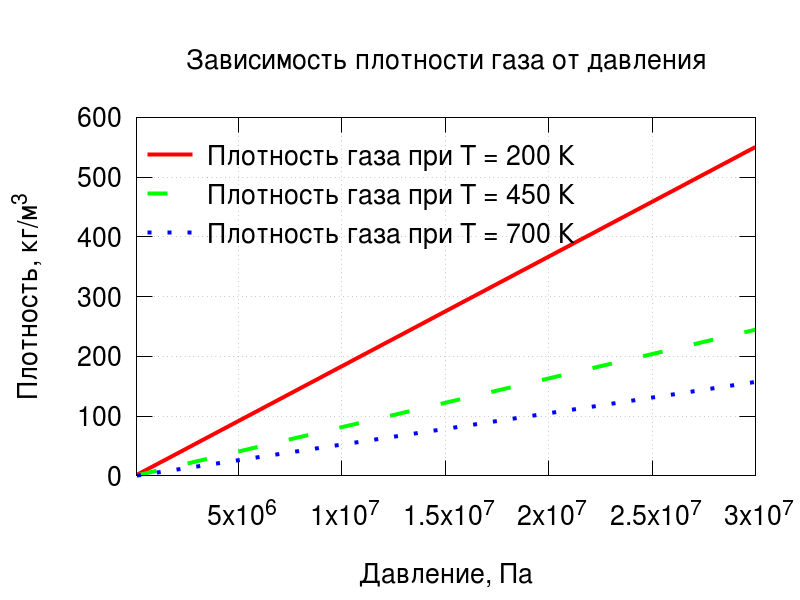
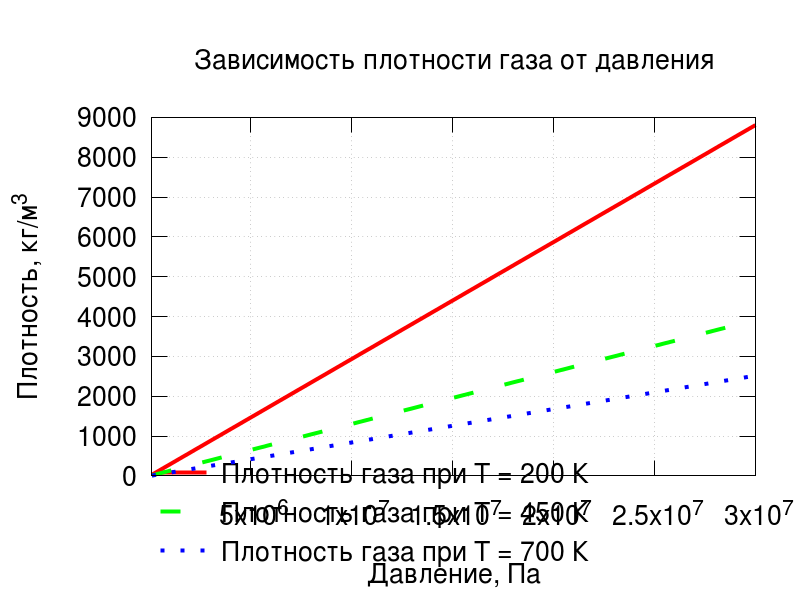
Parallel mode was done!

diff --git a/src/lib/boundary_conditions.c b/src/lib/boundary_conditions.c
@@ -5,6 +5,9 @@
 #include <stdlib.h>
 #include <string.h>
 #include <math.h>
+#include <unistd.h>
+#include <sys/time.h>
+#include "boundary_conditions.h"
 
 #if AVALANCHE
 int SET_boundary_CONDITION_velocity_zero_gradient_on_up_and_sides_no_slip_on_low(in *I)
@@ -592,50 +595,16 @@ int SET_boundary_CONDITION_termogas_no_bounadries_4_in_1_out_consistent(in *I)
 			}
 		}
 	}
-	i = j = k = 0;
-	I->B_prev[B_IND(I, 0, i, j, k)] = 3.55 * (1 - 2 * I->epsilon) / 4.55;
-	I->B_prev[B_IND(I, 1, i, j, k)] = (1 - 2 * I->epsilon) / 4.55;
-	I->B_prev[B_IND(I, 2, i, j, k)] = I->epsilon;
-	I->B_prev[B_IND(I, 3, i, j, k)] = I->epsilon;
-	I->B_prev[B_IND(I, 4, i, j, k)] = I->injection_well_pressure;
-	I->B_prev[B_IND(I, 5, i, j, k)] = 0.5 - (I->residual_saturation[1] + I->epsilon) / 2;
-	I->B_prev[B_IND(I, 6, i, j, k)] = I->residual_saturation[1] + I->epsilon;
-	I->B_prev[B_IND(I, 7, i, j, k)] = 0.5 - (I->residual_saturation[1] + I->epsilon) / 2;
-	i = j = 0;
-	k = I->nz - 1;
-	I->B_prev[B_IND(I, 0, i, j, k)] = 3.55 * (1 - 2 * I->epsilon) / 4.55;
-	I->B_prev[B_IND(I, 1, i, j, k)] = (1 - 2 * I->epsilon) / 4.55;
-	I->B_prev[B_IND(I, 2, i, j, k)] = I->epsilon;
-	I->B_prev[B_IND(I, 3, i, j, k)] = I->epsilon;
-	I->B_prev[B_IND(I, 4, i, j, k)] = I->injection_well_pressure;
-	I->B_prev[B_IND(I, 5, i, j, k)] = 0.5 - (I->residual_saturation[1] + I->epsilon) / 2;
-	I->B_prev[B_IND(I, 6, i, j, k)] = I->residual_saturation[1] + I->epsilon;
-	I->B_prev[B_IND(I, 7, i, j, k)] = 0.5 - (I->residual_saturation[1] + I->epsilon) / 2;
-	j = k = 0;
-	i = I->nx - 1;
-	I->B_prev[B_IND(I, 0, i, j, k)] = 3.55 * (1 - 2 * I->epsilon) / 4.55;
-	I->B_prev[B_IND(I, 1, i, j, k)] = (1 - 2 * I->epsilon) / 4.55;
-	I->B_prev[B_IND(I, 2, i, j, k)] = I->epsilon;
-	I->B_prev[B_IND(I, 3, i, j, k)] = I->epsilon;
-	I->B_prev[B_IND(I, 4, i, j, k)] = I->injection_well_pressure;
-	I->B_prev[B_IND(I, 5, i, j, k)] = 0.5 - (I->residual_saturation[1] + I->epsilon) / 2;
-	I->B_prev[B_IND(I, 6, i, j, k)] = I->residual_saturation[1] + I->epsilon;
-	I->B_prev[B_IND(I, 7, i, j, k)] = 0.5 - (I->residual_saturation[1] + I->epsilon) / 2;
-	j = 0;
-	i = I->nx - 1;
-	k = I->nz - 1;
-	I->B_prev[B_IND(I, 0, i, j, k)] = 3.55 * (1 - 2 * I->epsilon) / 4.55;
-	I->B_prev[B_IND(I, 1, i, j, k)] = (1 - 2 * I->epsilon) / 4.55;
-	I->B_prev[B_IND(I, 2, i, j, k)] = I->epsilon;
-	I->B_prev[B_IND(I, 3, i, j, k)] = I->epsilon;
-	I->B_prev[B_IND(I, 4, i, j, k)] = I->injection_well_pressure;
-	I->B_prev[B_IND(I, 5, i, j, k)] = 0.5 - (I->residual_saturation[1] + I->epsilon) / 2;
-	I->B_prev[B_IND(I, 6, i, j, k)] = I->residual_saturation[1] + I->epsilon;
-	I->B_prev[B_IND(I, 7, i, j, k)] = 0.5 - (I->residual_saturation[1] + I->epsilon) / 2;
-	j = 0;
-	i = I->nx / 2;
-	k = I->nz / 2;
-	I->B_prev[B_IND(I, 4, i, j, k)] = I->production_well_pressure;
+	for (k = 0; k < I->nz; k++) {
+		for (i = 0; i < I->nx; i++) {
+			for (j = 0; j < I->ny; j++) {
+				if (injection_well(I, i, j, k))
+					set_injection_well(I, i, j, k);
+				if (production_well(I, i, j, k))
+					set_production_well(I, i, j, k);
+			}
+		}
+	}
 	return 0;
 }
 
@@ -672,7 +641,7 @@ int SET_boundary_CONDITION_termogas_no_bounadries_4_in_1_out_parallel(in *I)
 			for (j = -I->stencil_size; j < I->ny + I->stencil_size; j++) {
 				if ((internal_cell(I, i, j, k)) && (I->ind_proc[(i + I->ind_start_region_proc[0]) * I->gl_ny + j + I->ind_start_region_proc[1]] != I->my_rank)) {
 					for (p = 0; p < I->num_parameters; p++) {
-						I->B_prev[B_IND(I, p, i, j, k)] = I->gl_B[GL_A_IND(I, p, i + I->ind_start_region_proc[0], j + I->ind_start_region_proc[0], k)];
+						I->B_prev[B_IND(I, p, i, j, k)] = I->gl_B[GL_A_IND(I, p, i + I->ind_start_region_proc[0], j + I->ind_start_region_proc[1], k)];
 					}
 				} else if (boundary_cell(I, i, j, k)) {
 					for (p = 0; p < I->num_parameters; p++) {
@@ -707,7 +676,6 @@ int SET_boundary_CONDITION_termogas_no_bounadries_4_in_1_out_parallel(in *I)
 				if (injection_well(I, i, j, k))
 					set_injection_well(I, i, j, k);
 				if (production_well(I, i, j, k)) {
-					printf("Processor %d: i = %d, j = %d, k = %d\n", I->my_rank, i, j, k);
 					set_production_well(I, i, j, k);
 				}
 			}

diff --git a/src/lib/matrix_functions.c b/src/lib/matrix_functions.c
@@ -43,7 +43,9 @@ int write_B_prev_to_B(in *I)
 
 void print_A_csr(in *I)
 {
+#if DEBUG
 	printf("Print matrix A in CSR format function\n");
+#endif
 	FILE *f;
 	int i, j, k, fl_tmp;
 	if ((f = fopen("tmp/A_csr.txt","w")) == NULL) {
@@ -139,7 +141,9 @@ void print_A_csr(in *I)
 
 int SuperLU_solver(in *I)
 {
+#if DEBUG
 	printf("Solving matrix\n");
+#endif
 	SuperMatrix A_csr;
 	NCformat *Astore;
 //	double   *a;
@@ -182,7 +186,9 @@ int SuperLU_solver(in *I)
 //	dreadhb(&m, &n, &nnz, &a, &asub, &xa);
 	dCreate_CompCol_Matrix(&A_csr, I->system_dimension, I->system_dimension, I->non_zero_elem, I->Aelem_csr, I->Ajptr_csr, I->Aiptr_csr, SLU_NR, SLU_D, SLU_GE);
 	Astore = A_csr.Store;
+#if DEBUG
 	printf("Dimension %dx%d; # nonzeros %d\n", A_csr.nrow, A_csr.ncol, Astore->nnz);
+#endif
 	nrhs   = 1;
 //	if ( !(rhs = doubleMalloc(m * nrhs)) ) ABORT("Malloc fails for rhs[].");
 	dCreate_Dense_Matrix(&B_csr, I->system_dimension, nrhs, I->B, I->system_dimension, SLU_DN, SLU_D, SLU_GE);
@@ -207,19 +213,25 @@ int SuperLU_solver(in *I)
 		dinf_norm_error(nrhs, &B_csr, sol);
 		Lstore = (SCformat *) L.Store;
 		Ustore = (NCformat *) U.Store;
+#if DEBUG
 		printf("No of nonzeros in factor L = %d\n", Lstore->nnz);
 		printf("No of nonzeros in factor U = %d\n", Ustore->nnz);
 		printf("No of nonzeros in L+U = %d\n", Lstore->nnz + Ustore->nnz - I->system_dimension);
 		printf("FILL ratio = %.1f\n", (float)(Lstore->nnz + Ustore->nnz - I->system_dimension)/I->non_zero_elem);
+#endif
 		dQuerySpace(&L, &U, &mem_usage);
-		printf("L\\U MB %.3f\ttotal MB needed %.3f\n",
-		mem_usage.for_lu/1e6, mem_usage.total_needed/1e6);
+#if DEBUG
+		printf("L\\U MB %.3f\ttotal MB needed %.3f\n", mem_usage.for_lu/1e6, mem_usage.total_needed/1e6);
+#endif
 	} else {
+#if DEBUG
 		printf("dgssv() error returns INFO= %d\n", info);
+#endif
 		if ( info <= I->system_dimension ) { /* factorization completes */
 			dQuerySpace(&L, &U, &mem_usage);
-			printf("L\\U MB %.3f\ttotal MB needed %.3f\n",
-					mem_usage.for_lu/1e6, mem_usage.total_needed/1e6);
+#if DEBUG
+			printf("L\\U MB %.3f\ttotal MB needed %.3f\n", mem_usage.for_lu/1e6, mem_usage.total_needed/1e6);
+#endif
 		}
 		printf("Matrix has no solution\n");
 		return 1;
@@ -232,7 +244,9 @@ int SuperLU_solver(in *I)
 //		phase_fraction[i] = sol[i * num_parameters + 3];
 //		pressure[i] = sol[i * num_parameters + 4];
 //	}
+#if DEBUG
 	printf("Matrix solved\n");
+#endif
 	
 	StatFree(&stat);
 //	SUPERLU_FREE (rhs);
@@ -247,7 +261,9 @@ int SuperLU_solver(in *I)
 #if ( DEBUGlevel>=1 )
 	CHECK_MALLOC("Exit main()");
 #endif
+#if DEBUG
 	printf("End of function solve matrix\n");
+#endif
 	return 0;
 }
 

diff --git a/src/lib/x_backward_euler_second_separated_FDM_termogas.c b/src/lib/x_backward_euler_second_separated_FDM_termogas.c
@@ -59,8 +59,6 @@ int LAPL_coef_pressure_backward_euler_second_separated_FDM_termogas(in *I, int p
 	for (pr = 0; pr < 3; pr++) {
 		ind_pr[0] = ind_pr[1] = ind_pr[2] = 0;
 		ind_pr[pr] = 1;
-		if ((I->my_rank == 1) && (i == 0) && (j == 0))
-			printf("Process %d PID %d: LAPL\n", I->my_rank, getpid());
 //		A_value = - Darsi_M_coef(I, i + ind_pr[0], j + ind_pr[1], k + ind_pr[2]) / (I->dx[pr] * I->dx[pr]);
 //		WRITE_TO_A(p, i + ind_pr[0], j + ind_pr[1], k + ind_pr[2], -1);
 //		A_value = - Darsi_M_coef(I, i - ind_pr[0], j - ind_pr[1], k - ind_pr[2]) / (I->dx[pr] * I->dx[pr]);
@@ -69,22 +67,14 @@ int LAPL_coef_pressure_backward_euler_second_separated_FDM_termogas(in *I, int p
 //		WRITE_TO_A(p, i, j, k, -1);
 		if (!(boundary_cell(I, i + ind_pr[0], j + ind_pr[1], k + ind_pr[2]))) {
 			A_value = (Darsi_M_coef(I, i + ind_pr[0], j + ind_pr[1], k + ind_pr[2]) + Darsi_M_coef(I, i, j, k)) / (2 * I->dx[pr] * I->dx[pr]);
-			if ((I->my_rank == 1) && (i == 0) && (j == 0))
-				printf("Process %d PID %d: A_value = %lf,\t", I->my_rank, getpid(), A_value);
 			WRITE_TO_A(p, i, j, k, -1);
 			A_value = - A_value;
-			if ((I->my_rank == 1) && (i == 0) && (j == 0))
-				printf("A_value = %lf\n", A_value);
 			WRITE_TO_A(p, i + ind_pr[0], j + ind_pr[1], k + ind_pr[2], -1);
 		}
 		if (!(boundary_cell(I, i - ind_pr[0], j - ind_pr[1], k - ind_pr[2]))) {
 			A_value = (Darsi_M_coef(I, i - ind_pr[0], j - ind_pr[1], k - ind_pr[2]) + Darsi_M_coef(I, i, j, k)) / (2 * I->dx[pr] * I->dx[pr]);
-			if ((I->my_rank == 1) && (i == 0) && (j == 0))
-				printf("Process %d PID %d: A_value = %lf\t", I->my_rank, getpid(), A_value);
 			WRITE_TO_A(p, i, j, k, -1);
 			A_value = - A_value;
-			if ((I->my_rank == 1) && (i == 0) && (j == 0))
-				printf("A_value = %lf\n", A_value);
 			WRITE_TO_A(p, i - ind_pr[0], j - ind_pr[1], k - ind_pr[2], -1);
 		}
 	}

diff --git a/src/lib/mesh_operations.c b/src/lib/mesh_operations.c
@@ -309,7 +309,6 @@ int make_boundary(in *I)
 int do_decomposition(in *I)
 {
 #if DEBUG
-	MPI_Barrier(MPI_COMM_WORLD);
 	printf("Making decomposition in process %d\n", I->my_rank);
 #endif
 	int i, j, k, l;
@@ -348,15 +347,15 @@ int do_decomposition(in *I)
 	MPI_Bcast(I->ind_proc, I->gl_nx * I->gl_ny, MPI_INT, 0, MPI_COMM_WORLD);
 	if (I->my_rank == 0) {
 		I->gl_ind_cell_multipl = I->ind_cell_multipl;
+		I->gl_n_cells_multipl = I->n_cells_multipl;
 	} else {
 		if ((I->gl_ind_cell_multipl = (int *) malloc(I->gl_nx * I->gl_ny * sizeof(int))) == NULL) {
 			printf("Memory error in func %s in process %d\n", __func__, I->my_rank);
 			return 1;
 		}
 	}
+	MPI_Barrier(MPI_COMM_WORLD);
 	MPI_Bcast(I->gl_ind_cell_multipl, I->gl_nx * I->gl_ny, MPI_INT, 0, MPI_COMM_WORLD);
-	if (I->my_rank == 0)
-		I->gl_n_cells_multipl = I->n_cells_multipl;
 	MPI_Bcast(&I->gl_n_cells_multipl, 1, MPI_INT, 0, MPI_COMM_WORLD);
 	MPI_Bcast(&I->x_regions, 1, MPI_INT, 0, MPI_COMM_WORLD);
 	MPI_Bcast(&I->y_regions, 1, MPI_INT, 0, MPI_COMM_WORLD);
@@ -431,6 +430,7 @@ int reconstruct_src_1(in *I)
 	MPI_Status status;
 	double B_tmp[I->num_parameters];
 	int i, j, k, p;
+	MPI_Barrier(MPI_COMM_WORLD);
 	for (k = 0; k < I->gl_nz; k++) {
 		for (i = 0; i < I->gl_nx; i++) {
 			for (j = 0; j < I->gl_ny; j++) {
@@ -497,6 +497,7 @@ int reconstruct_src_2(in *I)
 			}
 		}
 	}
+	MPI_Barrier(MPI_COMM_WORLD);
 	MPI_Allgather(B_tmp1, num_el, MPI_DOUBLE, B_tmp2, num_el, MPI_DOUBLE, MPI_COMM_WORLD);
 	int ind_B_tmp2;
 	for (k = 0; k < I->gl_nz; k++) {

diff --git a/src/lib/t_second_separated_FDM_termogas.c b/src/lib/t_second_separated_FDM_termogas.c
@@ -61,13 +61,6 @@ int DDT_coef_pressure_second_separated_FDM_termogas(in *I, int p, int i, int j, 
 		pressure(I, i + 1, j, k) + pressure(I, i - 1, j, k) +
 		pressure(I, i, j + 1, k) + pressure(I, i, j - 1, k) +
 		pressure(I, i, j, k + 1) + pressure(I, i, j, k - 1)) / 6;
-	if ((I->my_rank == 1) && (i == 0) && (j == 0)) {
-		double B_value = A_value * (
-			pressure(I, i + 1, j, k) + pressure(I, i - 1, j, k) +
-			pressure(I, i, j + 1, k) + pressure(I, i, j - 1, k) +
-			pressure(I, i, j, k + 1) + pressure(I, i, j, k - 1)) / 6;
-		printf("Process %d PID %d: i = %d, j = %d, k = %d, A_value = %lf, B_value = %lf\n", I->my_rank, getpid(), i, j, k, A_value, B_value);
-	}
 //	I->B[A_IND(I, p, i, j, k)] += A_value * (
 //		pressure(I, i + 1, j, k) + pressure(I, i - 1, j, k) +
 //		pressure(I, i, j, k + 1) + pressure(I, i, j, k - 1)) / 4;

diff --git a/src/asc2Ab.c b/src/asc2Ab.c
@@ -139,6 +139,7 @@ numbering faces of cells is so
 #include <math.h>
 #include <unistd.h>
 #include <sys/time.h>
+#include <time.h>
 
 struct timeval tv1,tv2,dtv;
 struct timezone tz;
@@ -208,8 +209,15 @@ int main(int argc, char **argv)
 		sleep(5);*/
 	// GDB
 	if (read_asc_and_declare_variables(I)) goto error;
-	if (I->my_rank == 0) {
+	if ((I->nproc > 1) && (I->my_rank == 0)) {
 		if (do_interpolation(I)) goto error;
+	} else if (I->nproc == 1) {
+		if (do_interpolation(I)) goto error;
+		if ((I->ind_start_region_proc = (int *) malloc(I->nproc * 2 * sizeof(int))) == NULL) {
+			printf("Memory error in func %s in process %d\n", __func__, I->my_rank);
+			return 1;
+		}
+		I->ind_start_region_proc[0] = I->ind_start_region_proc[1] = 0;
 	}
 	if (I->nproc > 1) if (do_decomposition(I)) goto error;
 #if AVALANCHE

diff --git a/src/lib/create_matrix.c b/src/lib/create_matrix.c
@@ -205,19 +205,12 @@ int create_Ab_termogas(in *I)
 							if (DDT(p, i, j, k, identity, second, separated, FDM, termogas)) return 1;
 						}
 					}
-#if DEBUG
-					if ((I->my_rank == 0) && (i == 1) && (j == 1))
-						printf("blq\n");
-#endif
 					/* pressure equation */
 					p = 4;
 					if (I->flag_first_time_step) {
 						if (I->Ajptr_csr[I->A_ind_current] != -1)
 							I->A_ind_current++;
 						I->Aiptr_csr[A_IND(I, p, i, j, k)] = I->A_ind_current;
-					}
-					if ((I->my_rank == 1) && (i == 0) && (j == 0)) {
-						printf("Processor %d PID %d: well(I, %d, %d, %d) = %d\n", I->my_rank, getpid(), i, j, k, well(I, i, j, k));
 					}
 					//if ((I->equation_num == 4) && (!(well(I, i, j, k)))) {
 					if ((1) && (!(well(I, i, j, k)))) {

diff --git a/src/lib/init_data.c b/src/lib/init_data.c
@@ -128,7 +128,8 @@ int set_parameters_termogas(in *I)
 	I->density_environment = 2000;
 	I->initial_pressure = 20000000;
 	I->initial_temperature = 600;
-	I->injection_well_pressure = 30000000;
+	//I->injection_well_pressure = 30000000;
+	I->injection_well_pressure = 35000000;
 	I->production_well_pressure = 100000;
 	I->epsilon = 1e-10;
 	I->adiabatic_exponent[0] = 1; // water

diff --git a/src/lib/initial_conditions.c b/src/lib/initial_conditions.c
@@ -148,7 +148,6 @@ int SET_initial_CONDITION_pressure_fixed_value(in *I)
 int SET_initial_CONDITION_termogas_fixed_value(in *I)
 {
 #if DEBUG
-	MPI_Barrier(MPI_COMM_WORLD);
 	printf("Set the initial condition for all parameters in termogas case with fixed value for all calculation domain in process %d\n", I->my_rank);
 #endif
 	int i, j, k;

diff --git a/src/lib/array_functions.c b/src/lib/array_functions.c
@@ -31,6 +31,7 @@ int free_massives(in *I)
 	if (I->nproc > 1) {
 		if (free_parallel_arrays(I)) return 1;
 	}
+	free(I->ind_start_region_proc);
 	return 0;
 }
 
@@ -39,7 +40,6 @@ int free_parallel_arrays(in *I)
 	free(I->gl_ind_cell_multipl);
 	free(I->ind_proc);
 	free(I->gl_B);
-	free(I->ind_start_region_proc);
 	return 0;
 }
 

diff --git a/src/lib/init_data.h b/src/lib/init_data.h
@@ -1,7 +1,7 @@
 #define AVALANCHE 0
 #define TERMOGAS 1
 
-#define DEBUG 1
+#define DEBUG 0
 
 typedef struct init_parameters_avalanche {
 	char map_name[100];
